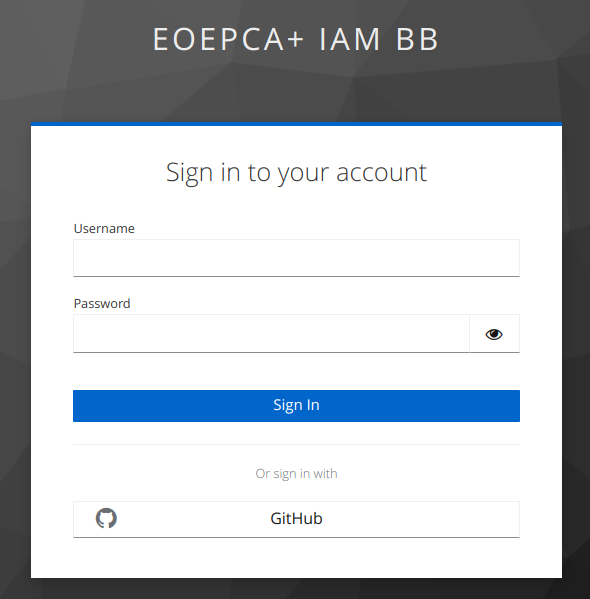
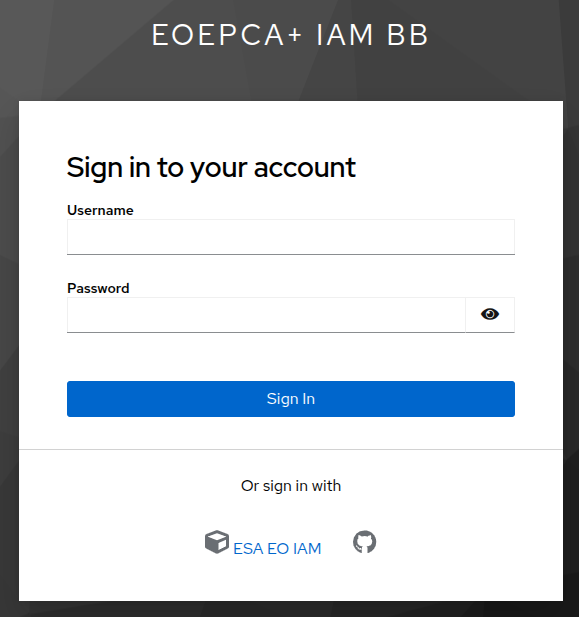
Updated the description of the architecture, figures and screenshots

diff --git a/docs/design/architecture.md b/docs/design/architecture.md
@@ -16,9 +16,8 @@ The Building Block includes the following components:
   - The pipeline execution requests (triggers)
   - The information collected during the pipeline executions, including the generated analysis reports.
 - The *Application Quality Web Portal* (front-end) allows the users to discover the integrated analysis tools, to discover and manage (create, edit, delete) analysis pipelines, execute these pipelines and inspect the reports.
-- The *Application Quality API* is the back-end service responsible for serving the data to the Web Portal and to client applications, for communicating with the databases, and for orchestrating the execution of the pipelines. 
-- The *Application Quality Analytics Database* stores the pipeline executions and the generated reports in a document (JSON) database. This is implemented using the [OpenSearch](https://opensearch.org/) software product.
-- The *Application Quality Dashboards* is a web application that allows displaying the executions and reports in customisable dashboards and visualisation components. [OpenSearch Dashboards](https://opensearch.org/docs/latest/dashboards/) will be used to implement this component.
+- The *Application Quality API* is the back-end service responsible for serving the data to the Web Portal and to client applications, for communicating with the database, and for orchestrating the execution of the pipelines. 
+- The *Application Quality Dashboards* is a web application that allows displaying the pipeline executions and reports in customisable dashboards and visualisation components. This component is implemented using the open source data visualization and monitoring solution [Grafana](https://grafana.com/docs/grafana/latest/).
 - The *CWL Runner* runs and manages the pipeline life-cycle in the Kubernetes cluster. The [Calrissian](https://duke-gcb.github.io/calrissian) software product and the [PyCalrissian](https://github.com/Terradue/pycalrissian) helper library are used to implement this component.
 
 The Web-portal and the backend API may be used to execute pipelines on-demand however the Building Block relies on the Notification Service and the Automation Service for providing application analysis automation.
@@ -32,7 +31,7 @@ The Web-portal and the backend API may be used to execute pipelines on-demand ho
 The API (back-end) component has the following main tasks:
   1. It listens for pipeline execution requests on a dedicated notification channel.
   1. When an analysis request is received, it retrieves the appropriate pipeline definition from the database, renders the CWL file (providing the input values) and submits the resulting CWL document to the CWL Runner.
-  1. During the pipeline executions, it collects the status and results and stores them in the databases.
+  1. During the pipeline executions, it receives the reports generated by the analysis tools and stores them in its database.
   1. In order to perform the performance analysis, it executes applications (processing workflows) in a test environment and collects the execution metrics (execution times, resources consumed, etc.) Note: This may be done by deploying and executing the applications using the [EOEPCA ADES](https://eoepca.readthedocs.io/projects/deploy/en/stable/eoepca/ades-zoo/) provided it allows targeting dedicated worker nodes and provided it gives access to the execution metrics.
   1. It sends notifications through dedicated channels to inform the requesters about the progress. If the Notification Service allows creating channels on-the-fly with hierarchical subjects, a new channel will be created for each running pipeline.
 
@@ -62,7 +61,7 @@ The current release of the Application Quality Building Block (2025 Q1, 2.0.0-rc
 
 Analysis pipelines may be executed in sandboxed environments, implemented using the [vCluster](https://www.vcluster.com/) technology. This is a decision to be taken at deployment time.
 
-In the current (2025 Q1, 2.0.0-rc1) implementation, the use of a vCluster is enabled using the following Helm chart values:
+In the current (2025 Q2, 2.0.0-rc2) implementation, the use of a vCluster is enabled using the following Helm chart values:
 
 ```yaml
 vclusters:

diff --git a/docs/design/use-cases.md b/docs/design/use-cases.md
@@ -112,7 +112,7 @@ This requires:
 - A configurable dashboard that allows
 
   - Selecting a particular pipeline execution
-  - Selecting a set of executions of the same pipeline on the same application (e.g. Between two dates).
+  - Selecting a set of executions of the same pipeline on the same application (e.g. between two dates).
   - Visualising the metrics using various chart types: area charts, line and bar charts, pie charts, point cloud, data tables, etc. Applicable chart types depend on the characteristics of the collected metrics.
   - Exporting reports.
 

diff --git a/docs/index.md b/docs/index.md
@@ -63,7 +63,7 @@ Users may use the Web Portal to monitor the execution of the pipelines and acces
 
 ## Analysis Dashboards
 
-The *Application Quality* BB integrates with Grafana to visualize the various reports and metrics generated during pipeline executions.
+The *Application Quality* BB integrates with Grafana to visualise the various reports and metrics generated during pipeline executions.
 
 Default panels and dashboards are provided. Users may use the provided panels to create new dashboards.
 
